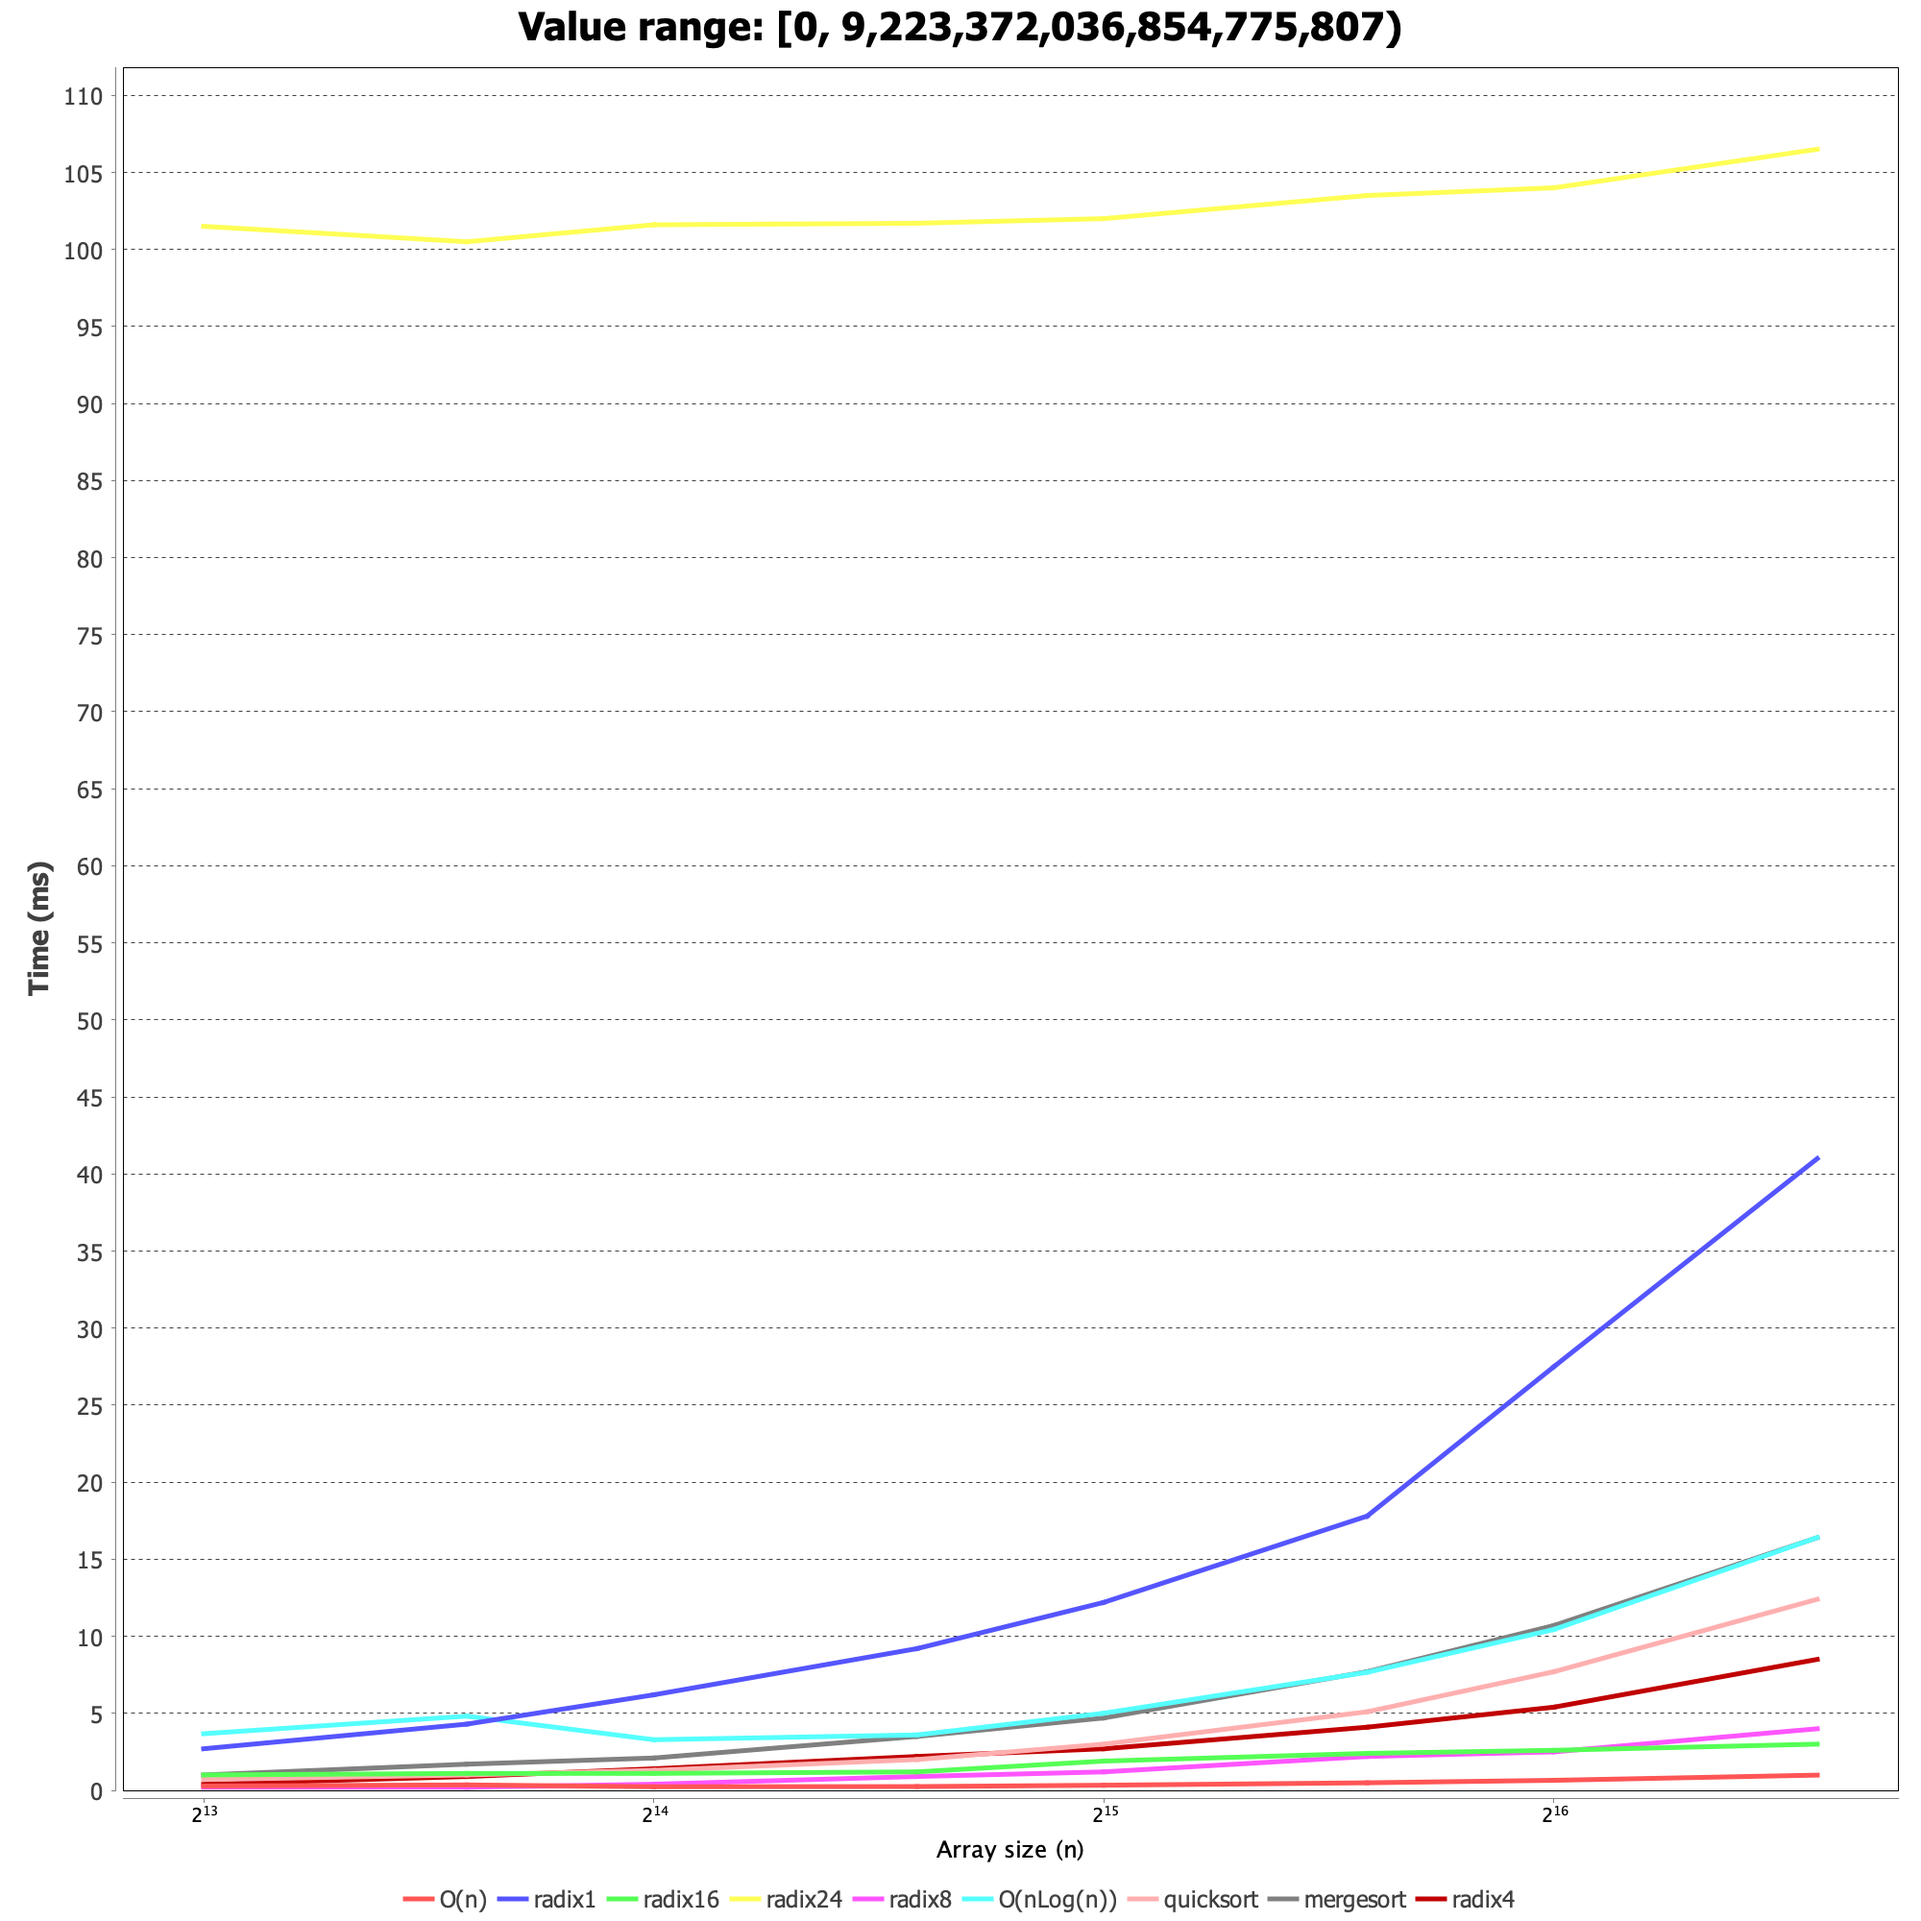
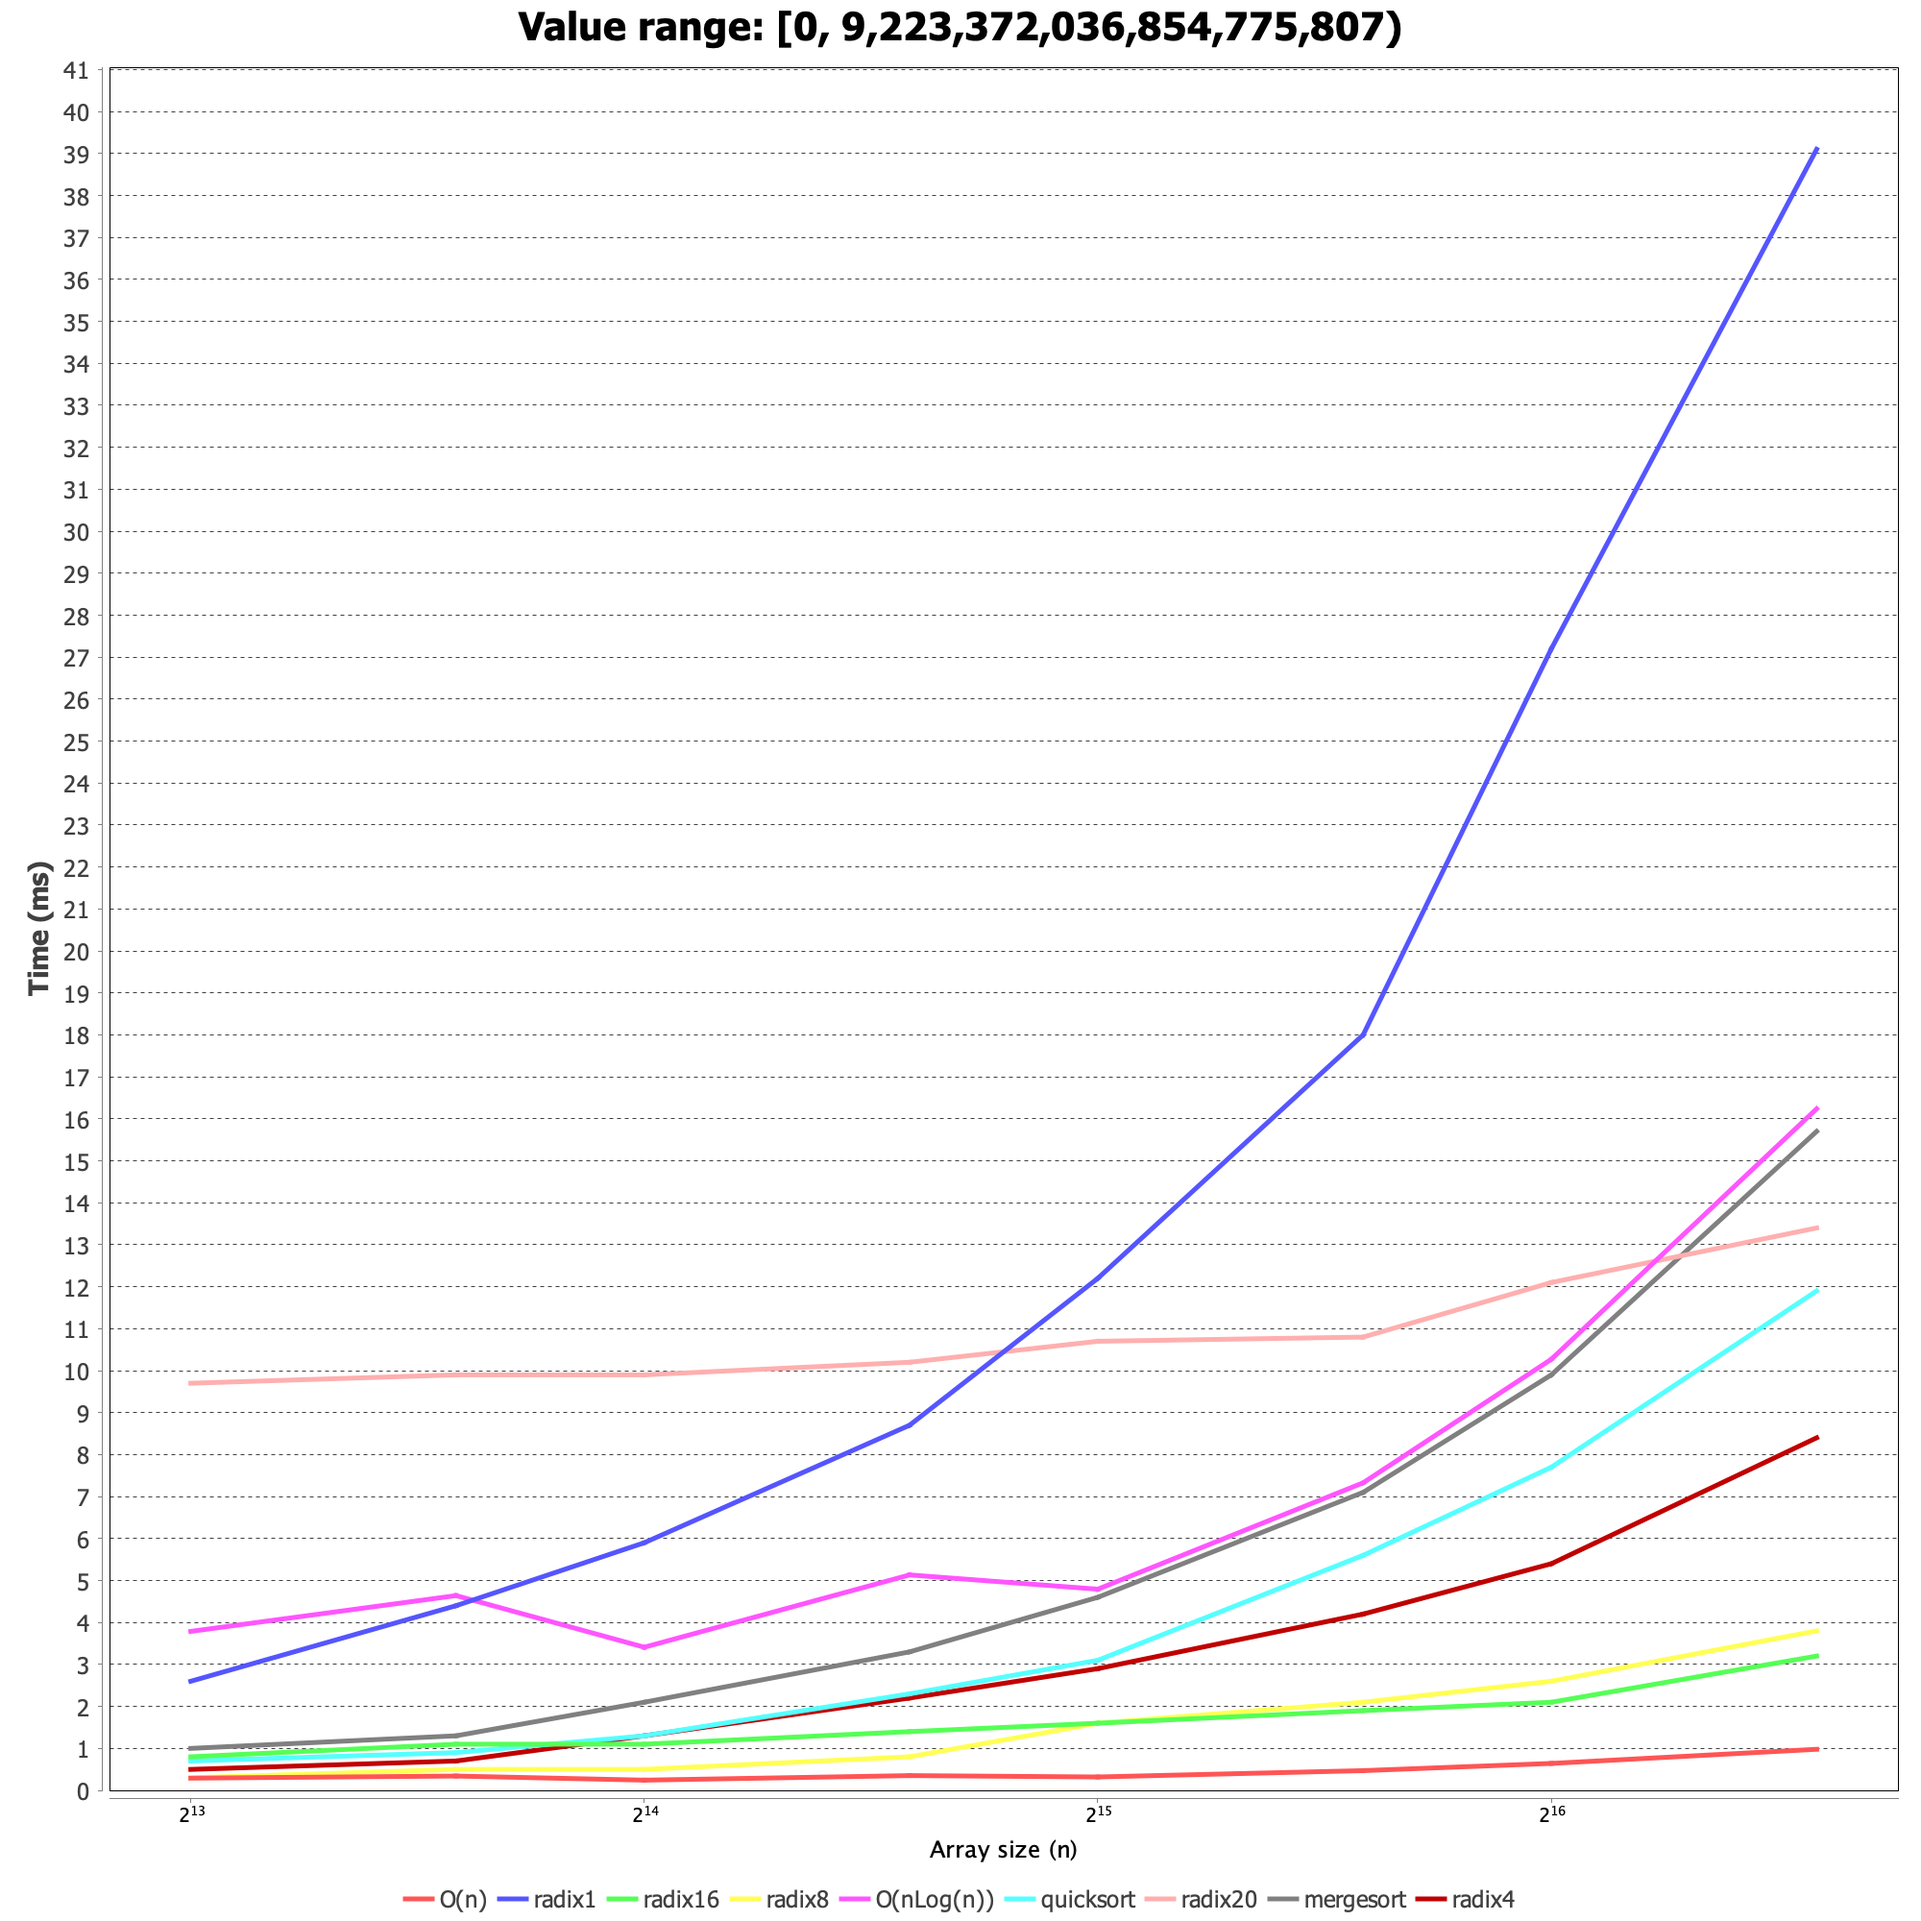
analyser fix

diff --git a/src/main/java/SortAnalyser.java b/src/main/java/SortAnalyser.java
@@ -155,7 +155,7 @@ public class SortAnalyser {
     private static void performExperiment(Experiment.Parameters params, File outputPath) throws IOException {
         Supplier<Stream<Long[]>> numberArraysStream = streamOfArrays(params);
         ResultPlotter plotter = new ResultPlotter();
-        List<Integer> digitWidths = List.of(1, 4, 8, 16, 24);
+        List<Integer> digitWidths = List.of(1, 4, 8, 16, 20);
 
         Map<String, Consumer<Long[]>> sorters = new HashMap<>(Map.of("quicksort", Sorter::quickSort, "mergesort", Sorter::mergeSortNoRecursion));
 
